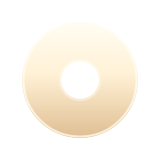
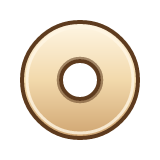
fix(art): 单槽三否三改——去外圈阴影/暖金字/珠面图标(WXG-T-560)
用户三否：① 凹槽一周有阴影，与版面不贴合 ② 文字白色色调不搭
③ 图标设计有纹理的，现在白色形状，不搭。

- ①删外侧接触影与两端内壁暗角，只留内壁上沿吃光 + 下沿受光两条。
- ②槽体由近黑 (34,17,7,198) 收到暖刻档 (50,27,12,168)→(104,63,30,122)，
  仍透木色；字色改暖金 #F7CD9D（tokens.md plaque_bevel 色系），实测
  槽底 L=85 / 字 L=228 ⇒ 5.86:1（AA 正文门 4.5；wood_text↔plaque_face
  参考 5.33:1 同量级）。
- ③图标改珠面材质：暖奶白渐变 #FFF6E4→#F2D9AC→#CFA470 + 深棕勾边
  #5E3B1E + 亮缘 + 孔位 evenodd 真镂空 + 1px 贴附投影（珠面档并回
  gen-resource-icons.py 正本）。木刻浮雕档已试并否：26px 读不出。

新增 --carve {light,mid,warm,deep} / --style {f 深棕,g 暖金} / --out。

diff --git a/games/beads/design/ai-workflows/gen-resource-icons.py b/games/beads/design/ai-workflows/gen-resource-icons.py
@@ -38,7 +38,10 @@ HEART = ('M 80,138 C 44,110 12,86 12,58 C 12,34 30,18 50,18 '
          'C 148,86 116,110 80,138 Z')
 BEAD_OUT_R = 58
 BEAD_HOLE_R = 19    # ≈ 0.33 × 外径，与盘面拼豆同比例
-SLOT_HI, SLOT_MID, SLOT_LOW = '#FFFDF2', '#FFF1D6', '#DFBE92'   # 槽内实心档的竖向渐变（米白→暖沙）
+# 槽内档（WXG-T-560 修订）：珠面材质 —— 暖奶白渐变 + 深棕勾边 + 亮缘。
+# 用户 2026-11-02 三否之三「图标设计有纹理的，现在白色形状，不搭」⇒ 冷白平涂改珠面。
+SLOT_HI, SLOT_MID, SLOT_LOW = '#FFF6E4', '#F2D9AC', '#CFA470'
+SLOT_EDGE = '#5E3B1E'      # 勾边（与四钮/招牌珠字同族的深棕）
 
 
 def _svg(body: str) -> str:
@@ -53,7 +56,7 @@ def _svg_slot(body: str) -> str:
     return (f'<svg xmlns="http://www.w3.org/2000/svg" width="{SIZE}" height="{SIZE}" '
             f'viewBox="0 0 {SIZE} {SIZE}">\n'
             f'  <defs><linearGradient id="g" x1="0" y1="0" x2="0" y2="1">'
-            f'<stop offset="0" stop-color="{SLOT_HI}"/><stop offset="0.45" stop-color="{SLOT_MID}"/>'
+            f'<stop offset="0" stop-color="{SLOT_HI}"/><stop offset="0.5" stop-color="{SLOT_MID}"/>'
             f'<stop offset="1" stop-color="{SLOT_LOW}"/></linearGradient></defs>\n{body}\n</svg>\n')
 
 
@@ -90,16 +93,17 @@ def main() -> None:
     # 叠进深槽底时孔位透出槽色；心形同步给亮缘，两枚材质一致。
     slot_icons = {
         'ui_icon_heart_slot': (
-            f'  <path d="{HEART}" fill="url(#g)"/>\n'
-            f'  <path d="{HEART}" fill="none" stroke="{SLOT_HI}" stroke-width="2.5" opacity="0.85"/>'),
+            f'  <path d="{HEART}" fill="url(#g)" stroke="{SLOT_EDGE}" stroke-width="4"/>\n'
+            f'  <path d="{HEART}" fill="none" stroke="{SLOT_HI}" stroke-width="3" opacity="0.85" '
+            f'transform="translate(0,3) scale(0.94) translate(5,5)"/>'),
         'ui_icon_bead_slot': (
-            f'  <path fill-rule="evenodd" fill="url(#g)" '
+            f'  <path fill-rule="evenodd" fill="url(#g)" stroke="{SLOT_EDGE}" stroke-width="4" '
             f'd="M 80,{80 - BEAD_OUT_R} a {BEAD_OUT_R},{BEAD_OUT_R} 0 1,0 0.01,0 Z '
             f'M 80,{80 - BEAD_HOLE_R} a {BEAD_HOLE_R},{BEAD_HOLE_R} 0 1,1 -0.01,0 Z"/>\n'
-            f'  <circle cx="80" cy="80" r="{BEAD_OUT_R - 1.5}" fill="none" stroke="{SLOT_HI}" '
-            f'stroke-width="2" opacity="0.75"/>\n'
-            f'  <circle cx="80" cy="80" r="{BEAD_HOLE_R + 1.2}" fill="none" stroke="{SLOT_HI}" '
-            f'stroke-width="1.6" opacity="0.5"/>'),
+            f'  <circle cx="80" cy="80" r="{BEAD_OUT_R - 5}" fill="none" stroke="{SLOT_HI}" '
+            f'stroke-width="3" opacity="0.8"/>\n'
+            f'  <circle cx="80" cy="80" r="{BEAD_HOLE_R + 3}" fill="none" stroke="{SLOT_EDGE}" '
+            f'stroke-width="2.5" opacity="0.55"/>'),
     }
     for name, body in slot_icons.items():
         svg = DST / f'{name}.svg'

diff --git a/production/TASKS.md b/production/TASKS.md
@@ -8,7 +8,7 @@
 
 | Task ID | 名称 | 负责 | 状态 | 产出 |
 |---|---|---|---|---|
-| WXG-T-560 | 美术·橱窗顶单条贯通凹槽（心数/豆数） | 主理人(CodeBuddy)·美术轨 | ✅ **完成（2026-11-02）**（用户三令收口：首令「融合在外框上」→ 双槽版；否令「中间心型去掉、拉成一条整体凹槽、水平放置、图标放两端、数字样式要设计」；修令「不完全嵌入框边、再下移、缩短、图标先出设计再贴」⇒ **抹心形**（wan2.7 bbox `334,324,422,392` 9.1s + 贴回三步，**框外 maxΔ=0**）+ **单槽 356×34 @(202,358)** （严格水平、圆头、两端距梁面上缘 ≈16/13px 完整嵌入）+ **图标概念2「珠面高光」入册**（`ui_icon_{heart,bead}_slot` SVG+PNG，渐变+亮缘，拼豆孔 `evenodd` 真镂空）+ **数值纯色 bold 27px 米白 `#FFF1D6`**。**描边/投影实测判否**：`TextCommand` 只有 fill/font/align/baseline/alpha，canvas2d 仅 `fillText`，全仓 `strokeText`/`shadowBlur`/`LabelOutline` 命中 0 ⇒ 控件层还原不了，按用户令一并去掉；另记运行时字体全 `sans-serif`（无 SF Rounded）。明细见说明件 | 见详情 |
+| WXG-T-560 | 美术·橱窗顶单条贯通凹槽（心数/豆数） | 主理人(CodeBuddy)·美术轨 | ✅ **完成（2026-11-02）**（用户三令收口：首令「融合在外框上」→ 双槽版；否令「中间心型去掉、拉成一条整体凹槽、水平放置、图标放两端、数字样式要设计」；修令「不完全嵌入框边、再下移、缩短、图标先出设计再贴」⇒ **抹心形**（wan2.7 bbox `334,324,422,392` 9.1s + 贴回三步，**框外 maxΔ=0**）+ **单槽 356×34 @(202,358)** （严格水平、圆头、两端距梁面上缘 ≈16/13px 完整嵌入）+ **图标概念2「珠面高光」入册**（`ui_icon_{heart,bead}_slot` SVG+PNG，渐变+亮缘，拼豆孔 `evenodd` 真镂空）+ **数值纯色 bold 27px 米白 `#FFF1D6`**。**描边/投影实测判否**：`TextCommand` 只有 fill/font/align/baseline/alpha，canvas2d 仅 `fillText`，全仓 `strokeText`/`shadowBlur`/`LabelOutline` 命中 0 ⇒ 控件层还原不了，按用户令一并去掉；另记运行时字体全 `sans-serif`（无 SF Rounded）。**同日末轮三否三改**（「一周阴影不贴版面 / 白字不搭 / 图标白色形状要纹理」）⇒ ① 删外侧接触影与两端内壁暗角（只留内壁上沿吃光 + 下沿受光）；② 槽由近黑收为**暖刻档**（上 `(50,27,12,168)`→下 `(104,63,30,122)`）、字色改**暖金 `#F7CD9D`**（plaque_bevel 色系），实测对比 **5.86:1**（AA 门 4.5）；③ 图标改**珠面材质**（暖奶白渐变 `#FFF6E4→#F2D9AC→#CFA470` + 深棕勾边 `#5E3B1E` + 亮缘 + evenodd 真镂空 + 1px 贴附影）；木刻浮雕档已试并否（26px 读不出）。明细见说明件 | 见详情 |
 | WXG-T-559 | 美术·v1 快照再撤 2 件（左箭头/按下底圆） | 主理人(CodeBuddy)·美术轨 | ✅ **完成（2026-11-02）**（用户贴 `ui_btn_arrow_left` / `ui_btn_circle_pressed` 两图令「移动回设计，**这个不是 v1 版本的**」⇒ 与 T-551 同判据：二者是 10-31/11-02 顶栏换代（木质圆牌底托 + 深棕线条箭头）的 **v2 起步件**，T-557 批量归档时因 v1 侧本无同件、被记成「3 件新增」而误收 ⇒ `git mv` 移回现役 `final/assets/menu/`：**v1 35 → 33 件**、**现役 6 → 8 件**（四钮齐 `ui_btn_circle_{normal,pressed}` + `ui_btn_arrow_{right,left}` + 四图标）。两侧交集实测 **0**；移出件与 `cocos/assets/textures/` 投放件**逐字节一致**（`62deeffe…` / `d5f4e3db…`）⇒ Cocos 侧零改动。文档：`final/README.md` 三处 + `v1/VERSION.txt` 封存内容/再撤件行/一致性行） | 见详情 |
 | WXG-T-558 | 美术·资源槽心/豆图标定形（质感判负） | 主理人(CodeBuddy)·美术轨 | ✅ **完成（2026-11-02）**（用户令「资源槽图标单独设计」+ 拍板「豆 = 拼豆圆片带中心孔、做法 = 程序化定形 + 模型补质感」。**定形入册**：SVG 贝塞尔 + resvg 栅格（PIL `line(joint='curve')` 在心形尖点出毛刺，已弃）⇒ `ui_icon_heart_line` / `ui_icon_bead_line` 各 160² 母版 + SVG 正本，线宽 13（34px 显 ≈2.8px）/ 色 `#5A2606` / 圆端无填充无投影。**质感判负**：本地 qwen-image-2.1-edit 木刻版归一后线宽比 **0.98**、IoU **0.922**（形状可用，此前「变粗走形」系未归一化的尺度错觉），但 34px 实显描边明度 std **0.6**（平涂 1.6）、极差 **2.3**（平涂 7.0）⇒ 高频刻痕被降采样抹平，唯一残留是软边比 **77.7% > 53.9%**（发虚）⇒ 用户拍板 **A：平涂定形版即最终稿、质感版不入库**，木刻只在 ≥64px 另议。顺带记两条工具链坑（RGBA→RGB 去白会残留底块 / 对比须先归一同 bbox） | 见详情 |
 | WXG-T-557 | 美术·assets/menu 除 6 件外归档 v1 | 主理人(CodeBuddy)·美术轨 | ✅ **完成（2026-11-02）**（用户令：点名保留 `ui_btn_circle_normal` / `ui_btn_arrow_right` / `ui_icon_{skin,settings,rank,calendar}` 共 **6 件**，「其他归档 v1」⇒ 现役面 41 → **6 件**，**35 件**移入 `v1/assets/menu/`（32 件与 v1 既有件逐字节一致；3 件新增：`ui_btn_circle_pressed` / `ui_btn_arrow_left` / `ui_menu_backdrop`）⇒ v1 该目录 32 → **35 件**。**影响面实测**：harness 位图映射引用 28 个件名，其中 22 件已归档 ⇒ 运行时走既有 `menuBitmapReady()` 回退（程序化绘制），`harness:smoke` 全绿；`check:cocos-mask` / `check:size` 均仍 OK。文档：README `assets/` 行改 6 件 + 台账加归档期注记；VERSION.txt 增补行） | 见详情 |

diff --git a/ctx/hot-files.md b/ctx/hot-files.md
@@ -25,7 +25,7 @@
 
 §wechatgame 项目长期笔记=1+81 · §日志蒸馏规程（R2 · WXG-T-0…=7+6 · §项目约定=13+22 · §常用脚本=35+11 · §SubAgent=46+4 · §Rules=50+3 · §Hooks=53+7 · §Headless / CI=60+8 · §已知限制=68+14
 
-## `production/TASKS.md` — 166 行 / 38028 tok / 实测读 4 次
+## `production/TASKS.md` — 166 行 / 38209 tok / 实测读 4 次
 
 §WXG 任务台账（SSOT）=1+167 · §待排（backlog，无号，立项时领取…=139+29
 
@@ -103,10 +103,10 @@
 §knowledge/ — 工作室知识库…=1+319 · §1 读取协议（开发前期）=7+10 · §2 写入协议（任务收尾）=17+28 · §3 文件分工=45+10 · §4 维护=55+12 · §5 生命周期（访问记账 → 归档 → …=67+41 · §6 活跃条目（自动生成）=108+212
 > 本表只列 7 / 11 节：其余 4 节 → ctx/index.json（按 path 取 `sections[].anchor` / `startLine`，勿整读）。
 
-## `production/TASKS-DETAIL.md` — 7056 行 / 199521 tok
+## `production/TASKS-DETAIL.md` — 7069 行 / 199974 tok
 
-§WXG 任务台账 · 详情（标题制正文…=1+7057 · §WXG-T-549=6626+33 · §WXG-T-550=6659+35 · §WXG-T-551=6694+34 · §WXG-T-552=6728+45 · §WXG-T-553=6773+39 · §WXG-T-554=6812+32 · §WXG-T-555=6844+36 · §WXG-T-556=6880+31 · §WXG-T-557=6911+34 · §WXG-T-558=6945+29 · §WXG-T-559=6974+42 · §WXG-T-560=7016+42
-> 本表只列 13 / 751 节：其余 738 节 → ctx/index.json（按 path 取 `sections[].anchor` / `startLine`，勿整读）。
+§WXG 任务台账 · 详情（标题制正文…=1+7070 · §WXG-T-549=6626+33 · §WXG-T-550=6659+35 · §WXG-T-551=6694+34 · §WXG-T-552=6728+45 · §WXG-T-553=6773+39 · §WXG-T-554=6812+32 · §WXG-T-555=6844+36 · §WXG-T-556=6880+31 · §WXG-T-557=6911+34 · §WXG-T-558=6945+29 · §WXG-T-559=6974+42 · §WXG-T-560=7016+55
+> 本表只列 13 / 752 节：其余 739 节 → ctx/index.json（按 path 取 `sections[].anchor` / `startLine`，勿整读）。
 
 ## `games/breakout/design/concept.md` — 143 行 / 3113 tok / 实测读 217 次
 

diff --git a/production/TASKS-DETAIL.md b/production/TASKS-DETAIL.md
@@ -7054,3 +7054,16 @@ T-554 当时按「清理掉重新做 v2」把 14 件 `git rm` 了；本单按用
 2. 槽体渐变/内阴影/下沿反光 `RectCommand` 表达不了（只有单色 fill+stroke）⇒ 真接入须做 **9-slice 凹槽贴图**。
 3. 坐标非 1:1（本图招牌 548 vs 落地单 370），真源仍 `tuning/layout.ts` + `meta-menu.ts`。
 4. 右项「豆数」= coins 改称，属文案/数据项改动，另走裁定。
+
+### 6. 修订（2026-11-02 末轮 · 用户三否）
+
+| 否 | 改 | 判据 |
+|---|---|---|
+| ① 「凹槽一周有阴影，与版面不贴合」 | 删掉**外侧接触影**与**两端内壁暗角**；只保留内壁上沿吃光 + 内壁下沿受光两条 | 整圈暗影让凹槽读成贴上去的药丸，真凹槽只有内壁两条边 |
+| ② 「文字白色色调不搭」 | 槽体从近黑 `(34,17,7,198)` 收到**暖刻档** `(50,27,12,168)→(104,63,30,122)`（仍透木色）；字色改**暖金 `#F7CD9D`**（`tokens.md` `plaque_bevel` 色系） | 实测槽底 L=85 / 字 L=228 ⇒ **5.86:1**（AA 正文 4.5；`wood_text`↔`plaque_face` 参考值 5.33:1，同量级） |
+| ③ 「图标设计有纹理的，现在白色形状，不搭」 | 图标改**珠面材质**：暖奶白渐变 `#FFF6E4→#F2D9AC→#CFA470` + 深棕勾边 `#5E3B1E` + 亮缘 + 孔位 `evenodd` 真镂空 + 1px 贴附投影 | 冷白平涂在暖木上读成贴纸；26px 下真木纹会糊成噪点，材质靠渐变+勾边+亮缘+贴附影表达 |
+
+- 新增参数：`menu-resource-slot.py --carve {light,mid,warm,deep}`、`--style {f:深棕,g:暖金}`、`--out`（比稿落 temp 不覆盖定稿）。
+- 已试并否：木刻浮雕图标档（26px 下深棕刻线在暖刻槽上几乎读不出）。
+- 定稿件同名覆盖：`proposals/menu-3d-style-20261030/menu-design-baseline-cat-topbar-final-slotbar-20261102.png`；
+  图标同名重建：`ui_icon_{heart,bead}_slot.{svg,png}`（珠面档进 `gen-resource-icons.py` 正本）。

diff --git a/ctx/BUDGET.md b/ctx/BUDGET.md
@@ -22,7 +22,7 @@
 
 | # | 文件 | tokens | 行数 | tier |
 |---:|---|---:|---:|:--:|
-| 1 | `production/TASKS-DETAIL.md` | 199521 | 7056 | normal |
+| 1 | `production/TASKS-DETAIL.md` | 199974 | 7069 | normal |
 | 2 | `games/beads/design/gdd/powerups-v2.md` | 144877 | 2328 | normal |
 | 3 | `games/beads/design/art/specs/assets-spec.md` | 121738 | 2109 | normal |
 | 4 | `production/qa/beads/g4-regression-report.md` | 86807 | 2201 | normal |
@@ -34,7 +34,7 @@
 | 10 | `docs/architecture/adr/ADR-0034-beads-save-uid-index-flatten.md` | 41181 | 502 | normal |
 | 11 | `games/beads/design/levels/levels-spec.md` | 39938 | 914 | normal |
 | 12 | `games/beads/design/art/specs/art-bible.md` | 38368 | 530 | normal |
-| 13 | `production/TASKS.md` | 38028 | 166 | hot |
+| 13 | `production/TASKS.md` | 38209 | 166 | hot |
 | 14 | `games/beads/design/art/proposals/ui-style-redesign/menu-architecture.md` | 37618 | 978 | normal |
 | 15 | `games/beads/design/art/specs/accessibility.md` | 37140 | 201 | normal |
 | 16 | `memory/2026-10-04.md` | 28255 | 930 | normal |
